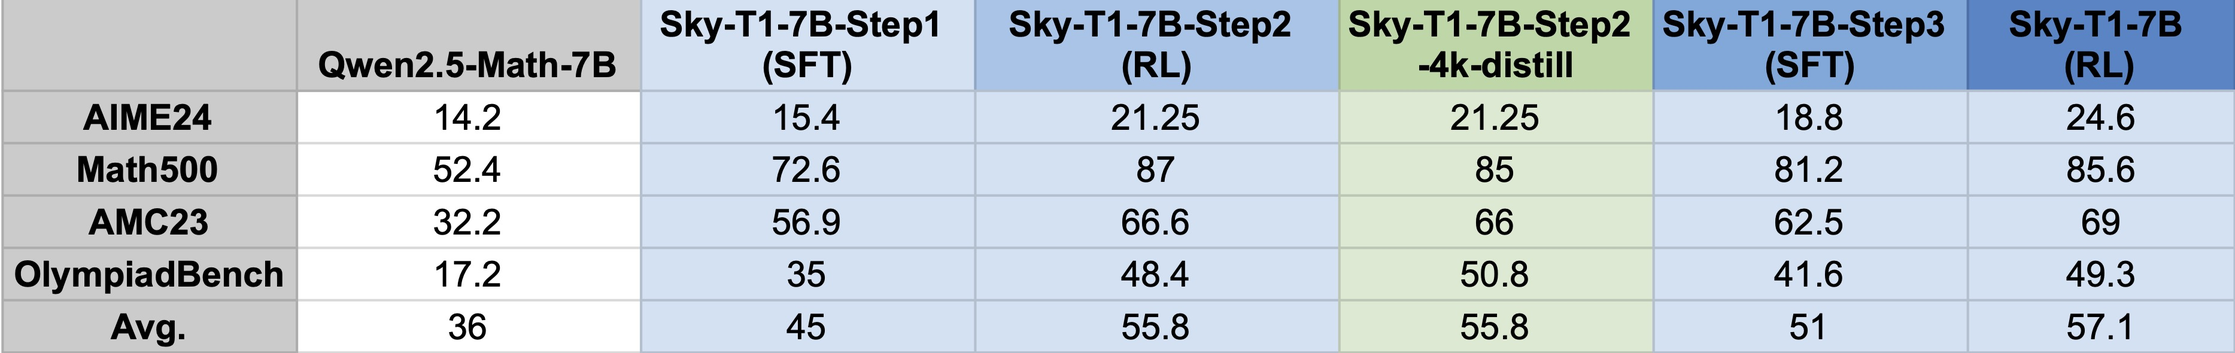
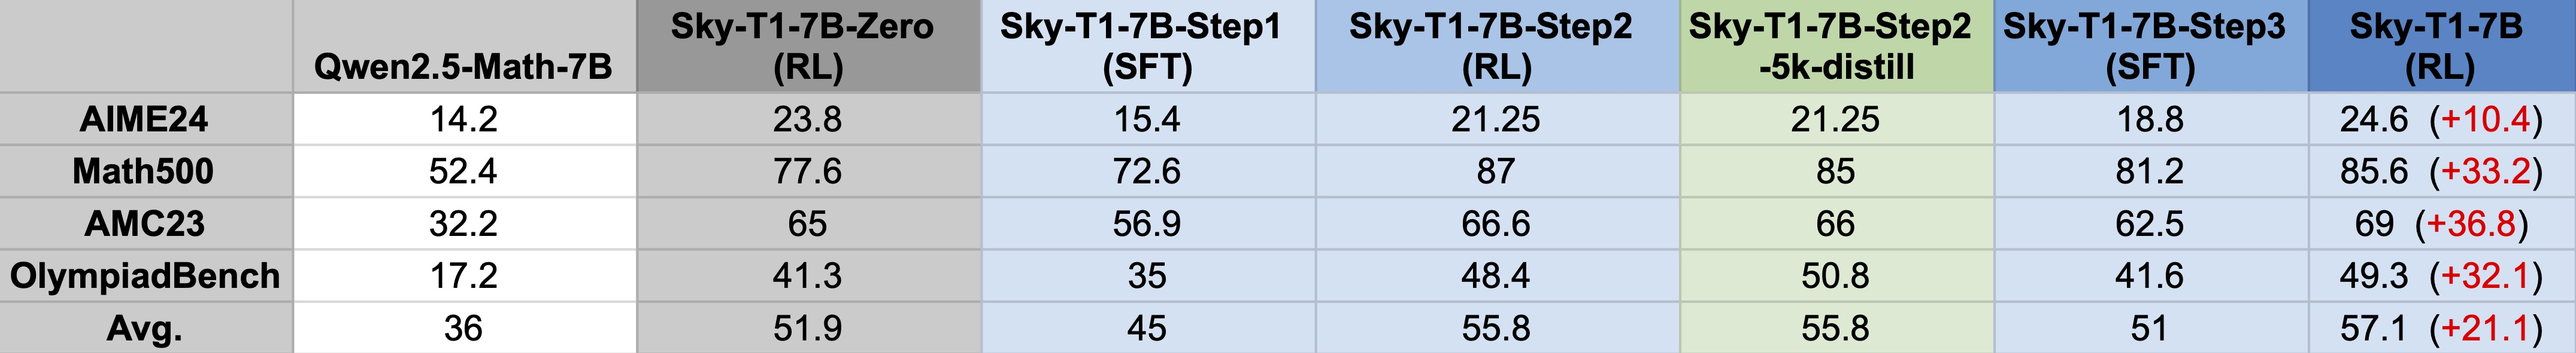
update

diff --git a/src/content/posts/sky-t1-7b.md b/src/content/posts/sky-t1-7b.md
@@ -44,10 +44,10 @@ Finally, we use the 5K responses to perform SFT on the Qwen2.5-Math-7B using the
 ### Step 2: RL
 Next, we apply the [PRIME](https://github.com/PRIME-RL/PRIME)’s algorithms to it. We use the [Eurus-2-RL-Data](https://huggingface.co/datasets/PRIME-RL/Eurus-2-RL-Data) for the RL training and run it for 127 steps with a batch size of 256 (~30K data). For each prompt, we generate 4 rollouts and adopt the prompt filtering optimization proposed in PRIME that filters out the problems for which all of the 4 rollouts are correct or wrong. After this stage, we get the [Sky-T1-7B-Step2](https://huggingface.co/NovaSky-AI/Sky-T1-7B-step2) model. This stage runs on 8xH100 for around 44 hours.
 
-As suggested in [DeepSeek-V3 technical report’s](https://arxiv.org/pdf/2412.19437v1) sec 5.1, the model trained through SFT and RL can serve as a high-quality data generator. We therefore perform another round of distillation and rejection sampling on traces generated by Sky-T1-7B-Step2 and curated [4k SFT samples](https://huggingface.co/datasets/NovaSky-AI/Sky-T1-7B-step2-distill-4k) using the same data mixture in Step 1. We fine-tune the Qwen2.5-Math-7B with these 4k samples and obtained the Sky-T1-7B-Step2-4k-distill model, which surprisingly maintains similar or even better performance than Sky-T1-7B-Step2 across the 4 benchmarks, demonstrating extremely high data-efficiency compared to the model fine-tuned with 5k QwQ traces.
+As suggested in [DeepSeek-V3 technical report’s](https://arxiv.org/pdf/2412.19437v1) sec 5.1, the model trained through SFT and RL can serve as a high-quality data generator. We therefore perform another round of distillation and rejection sampling on traces generated by Sky-T1-7B-Step2 and curated [5k SFT samples](https://huggingface.co/datasets/NovaSky-AI/Sky-T1-7B-step2-distill-5k) using the same data mixture in Step 1. We fine-tune the Qwen2.5-Math-7B with these 5k samples and obtained the Sky-T1-7B-Step2-5k-distill model, which surprisingly maintains similar or even better performance than Sky-T1-7B-Step2 across the 4 benchmarks, demonstrating extremely high data-efficiency compared to the model fine-tuned with 5k QwQ traces.
 
 ### Step 3: SFT Again
-Together, with the 4K data distilled from Sky-T1-7B-Step2 in Step 2 and 5K data distilled from QwQ in Step 1, we perform another round of SFT on Qwen2.5-Math-7B base model. Similarly, we trained the model for 3 epochs, using a learning rate of 1e-5, and a batch size of 96. We then get the [Sky-T1-7B-step3](https://huggingface.co/NovaSky-AI/Sky-T1-7B-step3) model.
+Together, with the 5K data distilled from Sky-T1-7B-Step2 in Step 2 and 5K data distilled from QwQ in Step 1, we perform another round of SFT on Qwen2.5-Math-7B base model. Similarly, we trained the model for 3 epochs, using a learning rate of 1e-5, and a batch size of 96. We then get the [Sky-T1-7B-step3](https://huggingface.co/NovaSky-AI/Sky-T1-7B-step3) model.
 
 ### Step 4: RL Again
 In this stage, to speed up the RL training, we adopt the simple [RLOO](https://arxiv.org/abs/2402.14740) algorithm without using prompt filtering and process reward model. We use the numina_amc_aime and numina_olympiads subset of the [Eurus-2-RL-Data](https://huggingface.co/datasets/PRIME-RL/Eurus-2-RL-Data). We run the training for 59 steps with a batch size of 256 (~15K data). For each prompt, we generate 8 rollouts. We get [Sky-T1-7B](https://huggingface.co/NovaSky-AI/Sky-T1-7B) as the final model.
